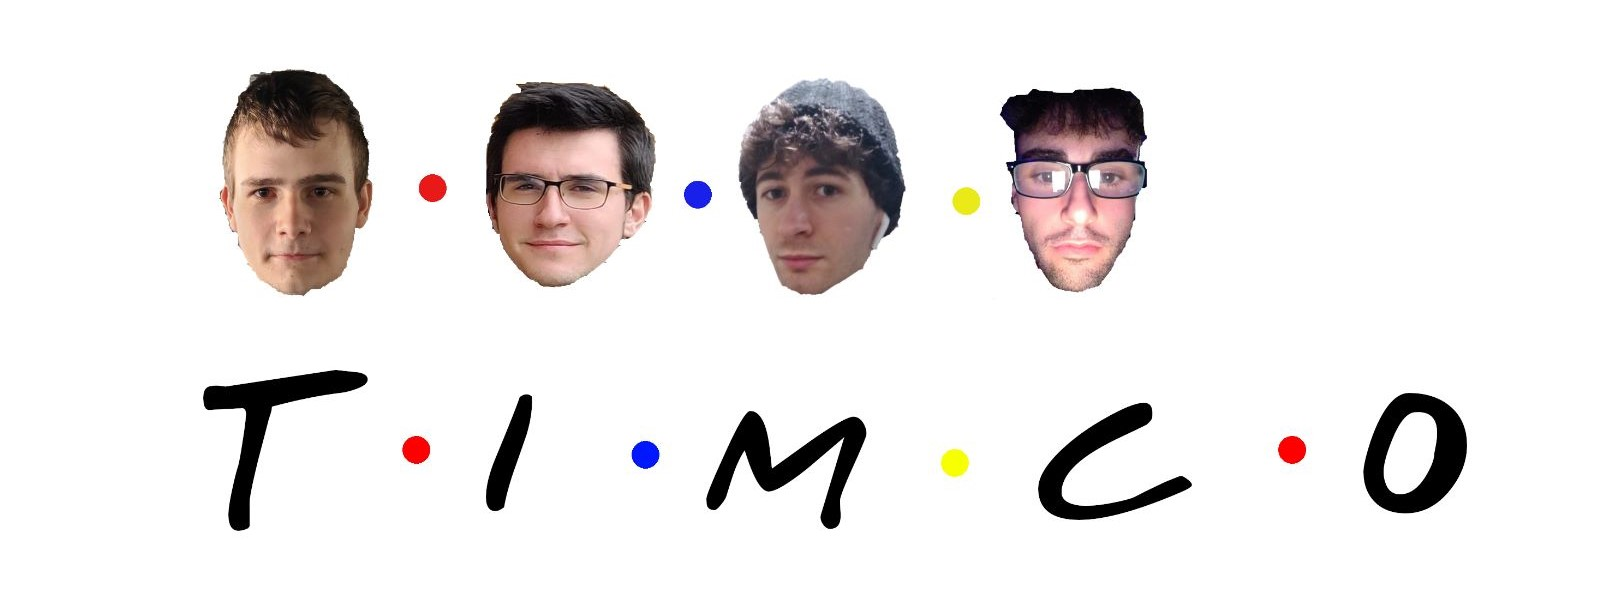
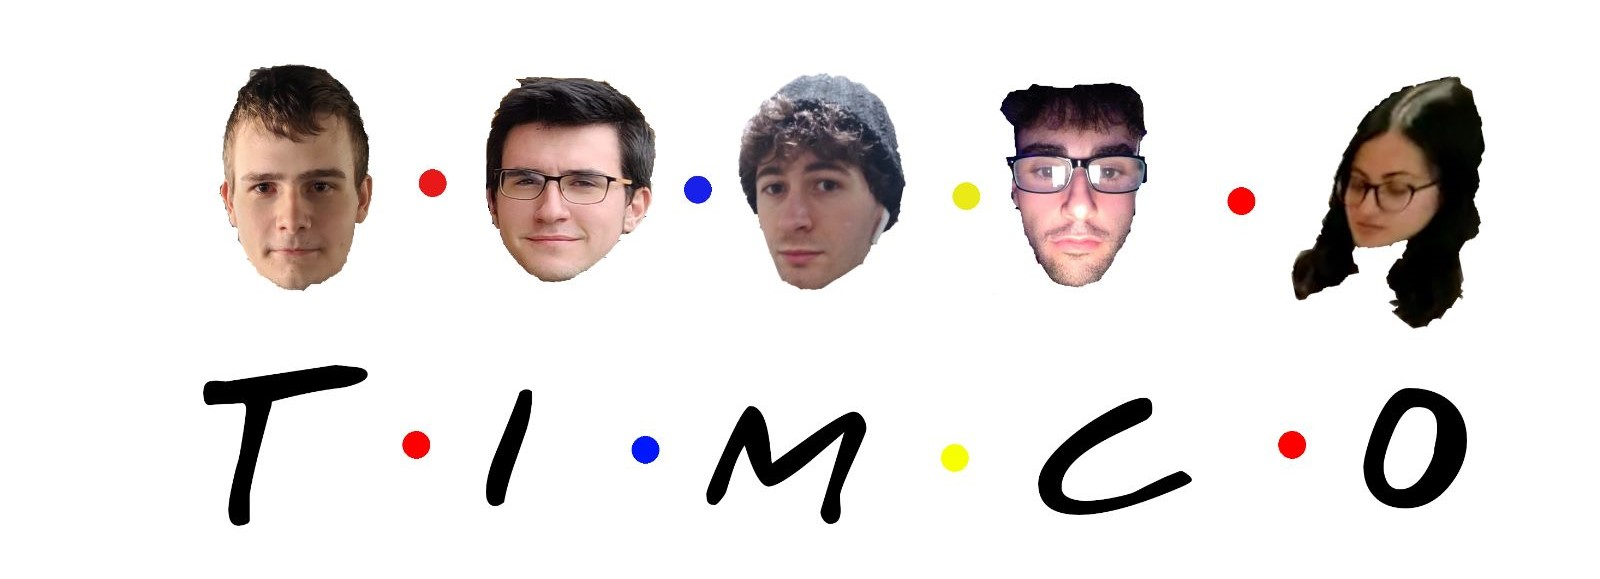
foto de grupo completa

diff --git a/index.html b/index.html
@@ -29,7 +29,7 @@
             <h1> Tim Colobondo </h1>
             <p> Nuestro equipo nace a raíz de una propuesta de trabajo para la realización de una aplicación web que
                 consiste en reproducir nuestro <b>podcast</b> (realizado por Iker y Javier) y <b>video</b> (realizado
-                por Kalsoom, Eloy y nuestro gran cámara Rodrigo). </p>
+                por Kalsoom, Eloy, Rodrigo y nuestros compañeros de clase. </p>
         </div>
 
         <div id="table" class="tablet-desktop">
